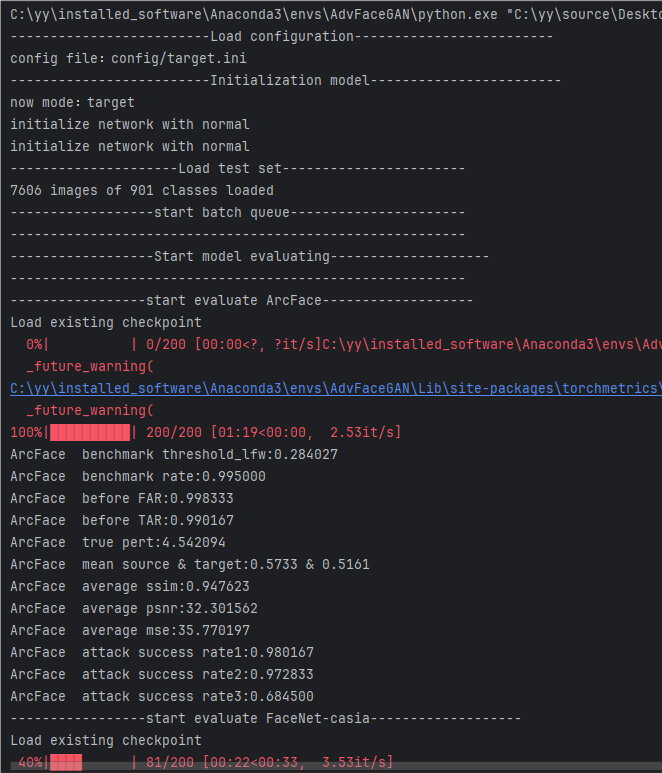
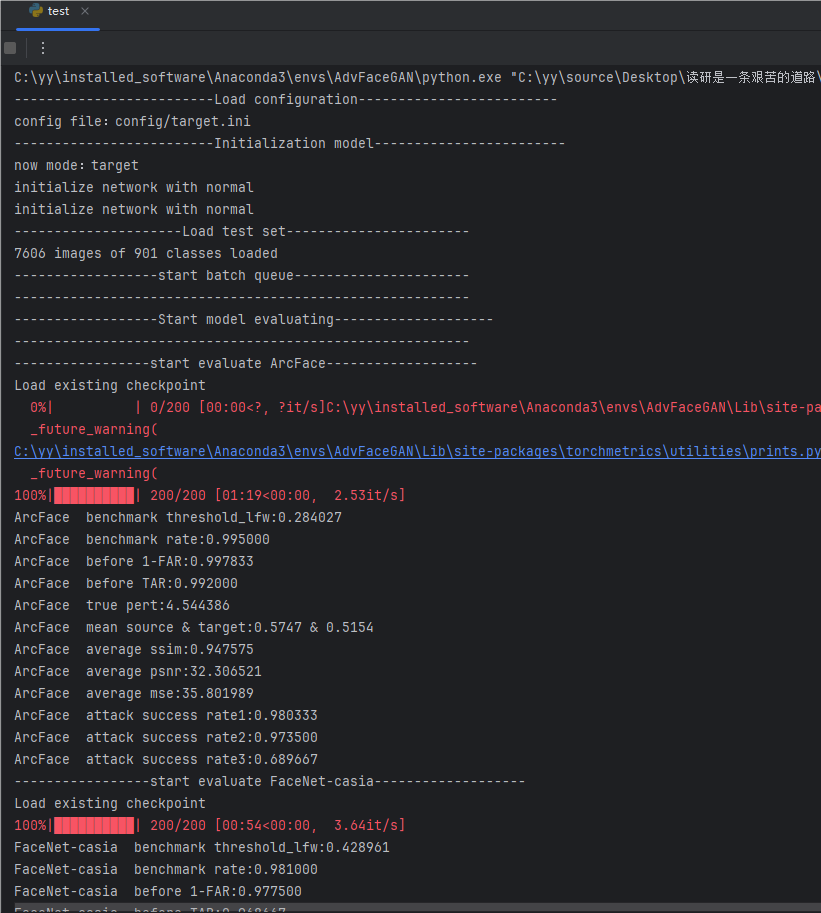
for peerj

Changed region(s): [[0.0, 0.0, 1.0, 1.0], [0.7855, 0.0, 1.0, 0.031], [0.574, 0.5589, 0.6042, 0.5899]]

diff --git a/AdvFaceGANAttack.py b/AdvFaceGANAttack.py
@@ -408,7 +408,7 @@ class AdvFaceGANAttack(nn.Module):
                 target3_simi_scores.extend(torch.cosine_similarity(emb_fake_after, emb_target3).tolist())
             print(model_name, " benchmark threshold_lfw:%f" % threshold_lfw[model_name]['cos'])
             print(model_name, " benchmark rate:%f" % threshold_lfw[model_name]['cos_acc'])
-            print(model_name, " before FAR:%f" % np.mean(np.array(FAR_simi_scores) < th))
+            print(model_name, " before 1-FAR:%f" % np.mean(np.array(FAR_simi_scores) < th))
             print(model_name, " before TAR:%f" % np.mean(np.array(TAR_simi_scores) > th))
             print(model_name, " true pert:%f" % np.mean(true_perts_score))
             print(model_name, " mean source & target:%.4f & %.4f" % (np.mean(source_simi_scores), np.mean(target_simi_scores)))
@@ -555,7 +555,7 @@ class AdvFaceGANAttack(nn.Module):
                 target3_simi_scores.extend(torch.cosine_similarity(emb_fake_after, emb_target3).tolist())
             print(model_name, " benchmark threshold_lfw:%f" % threshold_lfw[model_name]['cos'])
             print(model_name, " benchmark rate:%f" % threshold_lfw[model_name]['cos_acc'])
-            print(model_name, " before FAR:%f" % np.mean(np.array(FAR_simi_scores) < th))
+            print(model_name, " before 1-FAR:%f" % np.mean(np.array(FAR_simi_scores) < th))
             print(model_name, " before TAR:%f" % np.mean(np.array(TAR_simi_scores) > th))
             print(model_name, " true pert:%f" % np.mean(true_perts_score))
             print(model_name, " mean source & target:%.4f & %.4f" % (np.mean(source_simi_scores), np.mean(target_simi_scores)))

diff --git a/defense/ganimg.py b/defense/ganimg.py
@@ -83,7 +83,7 @@ save_image(clean_target_tensor*0.5+0.5, "defense/clean.png")
 #         after_TAR_simi_scores.extend(torch.cosine_similarity(emb_clean_source, emb_source).tolist())
 #         after_source_simi_scores.extend(torch.cosine_similarity(emb_clean_fake, emb_source).tolist())
 #         after_target_simi_scores.extend(torch.cosine_similarity(emb_clean_fake, emb_target).tolist())
-# print(fr_model_name, " before FAR:%f" % np.mean(np.array(FAR_simi_scores)>th))
+# print(fr_model_name, " before 1-FAR:%f" % np.mean(np.array(FAR_simi_scores)>th))
 # print(fr_model_name, " attack success rate1:%f" % np.mean(np.array(target_simi_scores) > th))
 # print(fr_model_name, " attack success rate2:%f" % np.mean((np.array(source_simi_scores) > th) & (np.array(target_simi_scores) > th)))
 # print(fr_model_name, " FSS&FTS:%f & %f" % (np.mean(np.array(source_simi_scores)),np.mean(np.array(target_simi_scores))))

diff --git a/README.md b/README.md
@@ -105,7 +105,7 @@ For Simple Evaluate result model, Switch between two test modes by modifying the
 
 ![test_mode.png](picture/test_mode.png)
 
-The start_testing function reads the test_dataset_dir dataset in the configuration file, randomly selects 6000 sets of non-human faces to generate antagonistic faces, tests all models in the test_model_name_list, And output PSNR, MSE, SSIM, impersonation attack success rate and other evaluation indicators. In the figure below, the ArcFace model FAR before the impersonation attack is 0.998333, the model FAR after the impersonation attack is 1-0.980167=0.019833.
+The start_testing function reads the test_dataset_dir dataset in the configuration file, randomly selects 6000 sets of non-human faces to generate antagonistic faces, tests all models in the test_model_name_list, And output PSNR, MSE, SSIM, impersonation attack success rate and other evaluation indicators. In the figure below, the ArcFace model 1-FAR before the impersonation attack is 0.997833, the model 1-FAR after the impersonation attack is 1-0.980333=0.019667.
 
 ![test1.png](picture/test1.png)
 
